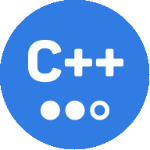
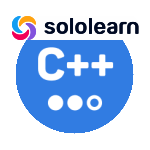
fix: add C++ SQL

diff --git a/README.md b/README.md
@@ -1,4 +1,4 @@
-[![AWS Cloud Practitioner](./aws-cloud-practitioner-150px.png)](https://www.credly.com/badges/d4db8802-409b-48da-bf65-be36222da22a/public_url) [![AWS Well-Architected Proficient](./well-architected-proficient-150px.png)](https://www.credly.com/badges/1e9f20cc-0319-4096-98ab-3e8383827814/public_url) [![Sololearn C++](./cppi-127px.png)](https://www.sololearn.com/certificates/CC-HQLL11OA) [![Sololearn SQL](./sqli-127px.png)](https://www.sololearn.com/certificates/CC-5W1SOU0Y)
+[![AWS Cloud Practitioner](./aws-cloud-practitioner-150px.png)](https://www.credly.com/badges/d4db8802-409b-48da-bf65-be36222da22a/public_url) [![AWS Well-Architected Proficient](./well-architected-proficient-150px.png)](https://www.credly.com/badges/1e9f20cc-0319-4096-98ab-3e8383827814/public_url) [![Sololearn C++](./cppi-150px.png)](https://www.sololearn.com/certificates/CC-HQLL11OA) [![Sololearn SQL](./sqli-150px.png)](https://www.sololearn.com/certificates/CC-5W1SOU0Y)
 
 <!---
 - 👋 Hi, I’m @Val-d-emar
